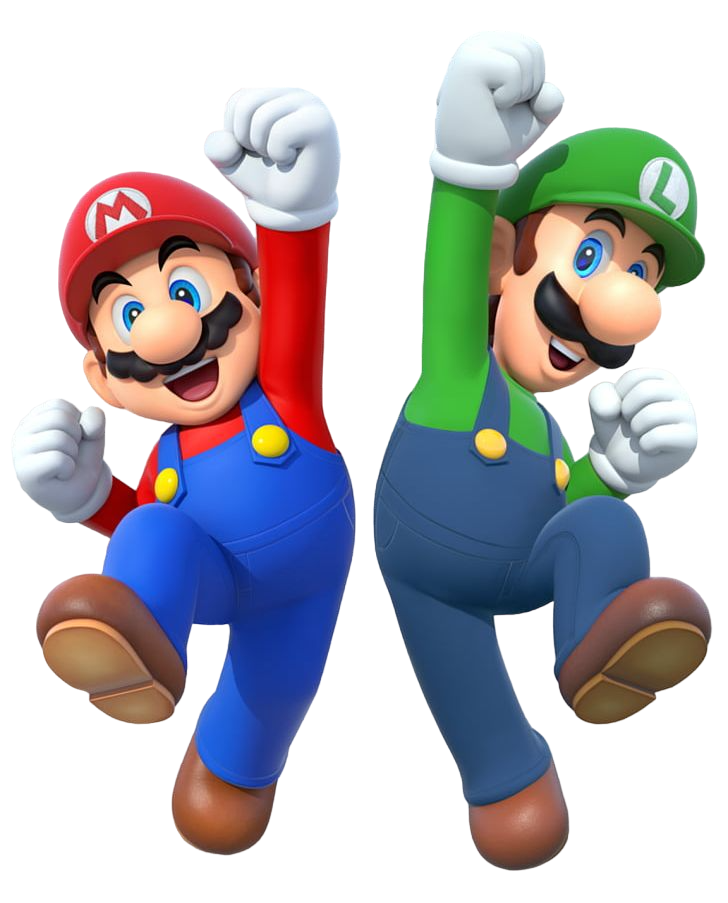
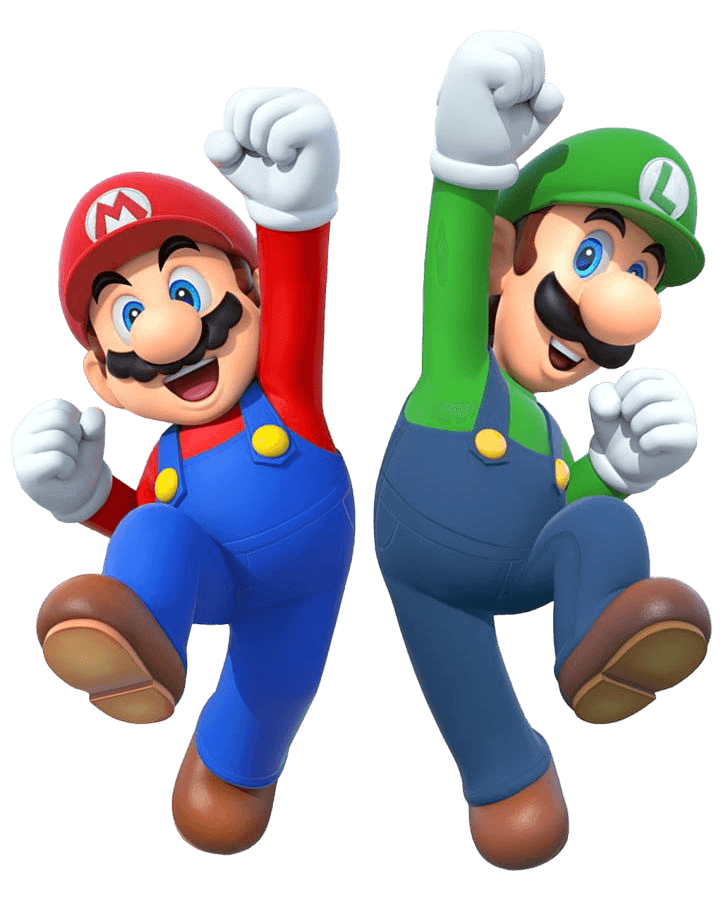
compressed images

diff --git a/src/pages/Finish.tsx b/src/pages/Finish.tsx
@@ -1,0 +1,29 @@
+// React
+import { useContext } from 'react';
+
+// react-router-dom
+import { Navigate, Link } from 'react-router-dom';
+
+// Context
+import { AppContext } from '../context/AppContext';
+
+// styles
+import '../styles/pages/Finish.scss';
+
+const Finish = () => {
+  const { completedQuestions } = useContext(AppContext);
+
+  if (!completedQuestions || completedQuestions.length < 14) {
+    return <Navigate to="/" replace />;
+  }
+
+  return (
+    <div className="finish">
+      <Link className="btn" to="/">
+        Play Again?
+      </Link>
+    </div>
+  );
+};
+
+export default Finish;

diff --git a/src/App.tsx b/src/App.tsx
@@ -11,6 +11,7 @@ import Lakitu from './pages/Lakitu';
 import NoMatch from './pages/NoMatch';
 import Question from './pages/Question';
 import PictureTime from './pages/PictureTime';
+import Finish from './pages/Finish';
 
 // Context
 import { AppContextProvider } from './context/AppContext';
@@ -220,6 +221,8 @@ function App() {
             />
           }
         />
+
+        <Route path="/finish" element={<Finish />} />
 
         <Route path="*" element={<NoMatch />} />
       </Routes>

diff --git a/src/styles/pages/Lakitu.scss b/src/styles/pages/Lakitu.scss
@@ -17,16 +17,16 @@
 
   @keyframes example {
     0% {
-      left: 10%;
-      top: 10%;
+      left: calc(50% - 100px);
+      top: 0;
     }
     50% {
-      left: 10%;
-      top: 20%;
+      left: calc(50% - 100px);
+      top: 10%;
     }
     100% {
-      left: 10%;
-      top: 10%;
+      left: calc(50% - 100px);
+      top: 0;
     }
   }
 }

diff --git a/src/components/CorrectAnswerModal.tsx b/src/components/CorrectAnswerModal.tsx
@@ -24,7 +24,7 @@ const CorrectAnswerModal: FC<IProps> = ({ next, handleClose }) => {
 
       <h1 className="secondaryFont">WAHOO!</h1>
       <Link className="btn" to={next} onClick={handleClose}>
-        Next Question
+        {next === '/finish' ? 'Next' : 'Next Question'}
       </Link>
     </div>
   );

diff --git a/src/pages/Lakitu.tsx b/src/pages/Lakitu.tsx
@@ -11,7 +11,7 @@ const Lakitu = () => {
   return (
     <div className="lakituPage">
       <img className="lakitu" src={lakitu} alt="lakitu" height={220} width={200} />
-      <Link to="/question1" className="btn">
+      <Link to="/question1" className="btn goBtn">
         GO!
       </Link>
     </div>

diff --git a/src/styles/pages/Finish.scss b/src/styles/pages/Finish.scss
@@ -1,0 +1,11 @@
+.finish {
+  background: url('../../images/finish.jpg');
+  background-size: cover;
+  min-height: 100vh;
+  background-repeat: no-repeat;
+  background-position: top left;
+  overflow: hidden;
+  display: flex;
+  align-items: center;
+  justify-content: center;
+}

diff --git a/src/styles/pages/Home.scss b/src/styles/pages/Home.scss
@@ -1,5 +1,5 @@
 .home {
-  height: 100vh;
+  min-height: 100vh;
   width: 100%;
   display: relative;
   background: red;
@@ -13,5 +13,10 @@
     font-size: 3.2rem;
     max-width: 320px;
     text-align: center;
+  }
+
+  .mario {
+    width: 200px;
+    height: auto;
   }
 }

diff --git a/src/styles/pages/Question.scss b/src/styles/pages/Question.scss
@@ -1,5 +1,5 @@
 .question {
-  background: url('../../images/question1Background.png');
+  background: url('../../images/question1Background.jpg');
   background-size: cover;
   min-height: 100vh;
   background-repeat: no-repeat;

diff --git a/src/pages/Home.tsx b/src/pages/Home.tsx
@@ -17,7 +17,7 @@ const Home = () => {
         LET&apos;S GO!
       </Link>
 
-      <img src={mario} alt="Mario" />
+      <img className="mario" src={mario} alt="Mario" />
     </div>
   );
 };
